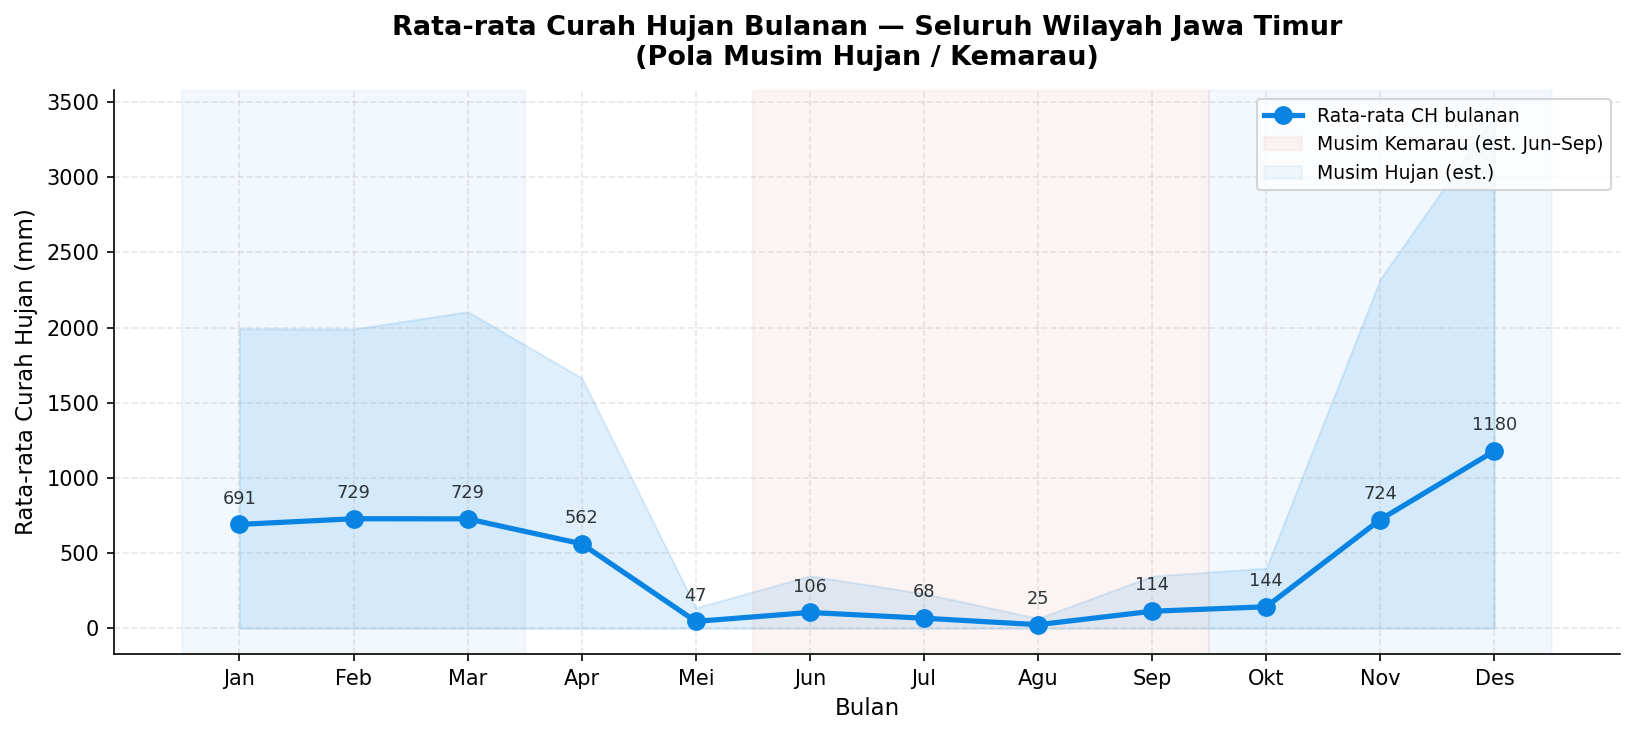
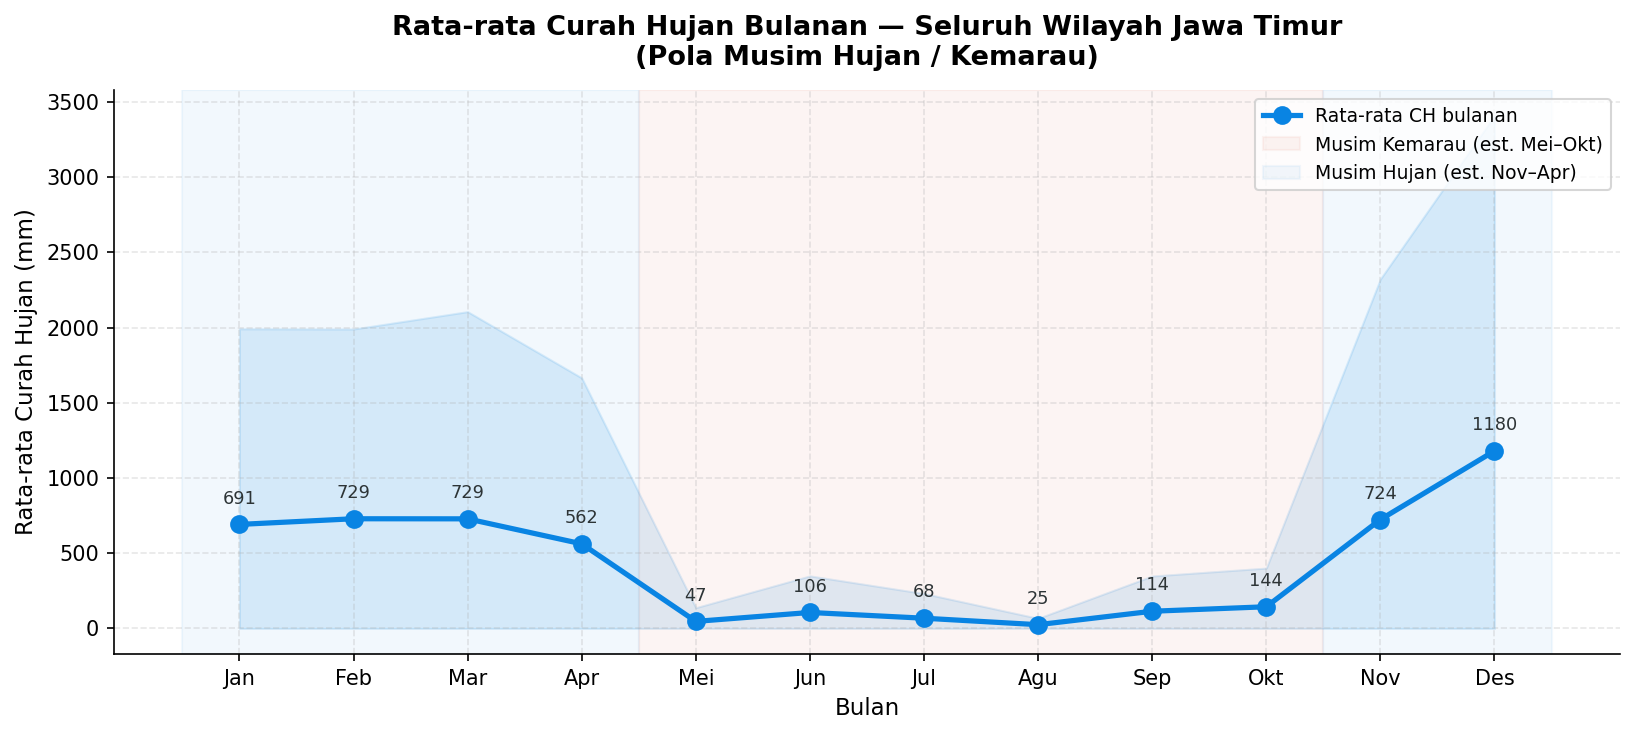
Updated rain analysis

Changed region(s): [[0.7798, 0.1497, 0.9982, 0.2694]]

diff --git a/analysis/rain_analysis.py b/analysis/rain_analysis.py
@@ -187,9 +187,9 @@ for xi, yi in zip(x, mm_arr):
     ax.annotate(f"{yi:.0f}", xy=(xi, yi), xytext=(0, 10),
                 textcoords="offset points", ha="center", fontsize=8.5, color="#2d3436")
 
-ax.axvspan(5.5, 9.5,  alpha=0.07, color="#e17055", label="Musim Kemarau (est. Jun–Sep)")
-ax.axvspan(9.5, 12.5, alpha=0.05, color=ACCENT)
-ax.axvspan(0.5, 3.5,  alpha=0.05, color=ACCENT, label="Musim Hujan (est.)")
+ax.axvspan(4.5, 10.5, alpha=0.07, color="#e17055", label="Musim Kemarau (est. Mei–Okt)")
+ax.axvspan(10.5, 12.5, alpha=0.05, color=ACCENT)
+ax.axvspan(0.5, 4.5,  alpha=0.05, color=ACCENT, label="Musim Hujan (est. Nov–Apr)")
 
 ax.set_xticks(x)
 ax.set_xticklabels(MONTH_LABELS, fontsize=10)
